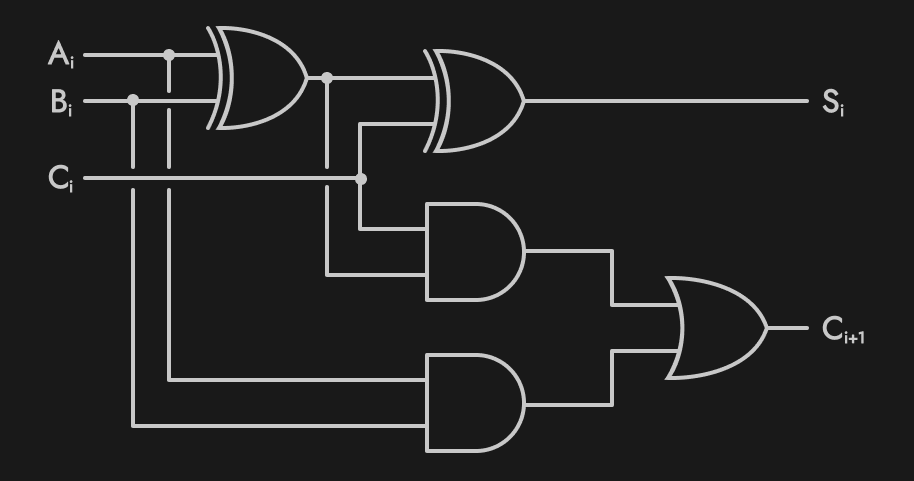
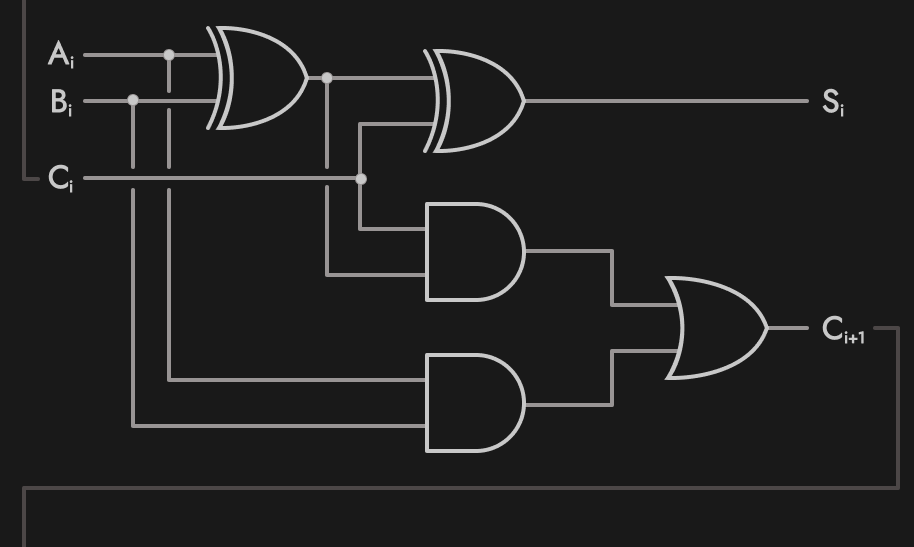
update adder.png

Changed region(s): [[0.0, 0.0, 1.0, 0.9667], [0.0, 0.9044, 0.0306, 1.0], [0.7965, 0.5301, 0.8271, 0.5613]]

diff --git a/content/posts/anatomy-of-an-addition/index.md b/content/posts/anatomy-of-an-addition/index.md
@@ -74,5 +74,5 @@ You've probably learnt about `add` circuit *(an adder)*, which looks like this:
   src="img/adder.png"
   default=true
   width=500
-  caption="A slice of an adder that computes `S = A + B`.<br/>**A<sub>i</sub>**, **B<sub>i</sub>**, **S<sub>i</sub>**, **C<sub>i</sub>** denotes the *i*-th bit of **A**, **B**, **S** and **C**."
+  caption="A slice of an adder that computes `S = A + B`.<br/>**A<sub>i</sub>**, **B<sub>i</sub>**, **S<sub>i</sub>**, **C<sub>i</sub>** denotes the *i*-th bit of **A**, **B**, **S** and **C**.<br/>**C** is the carry part resulted from constructing this adder."
 >}}